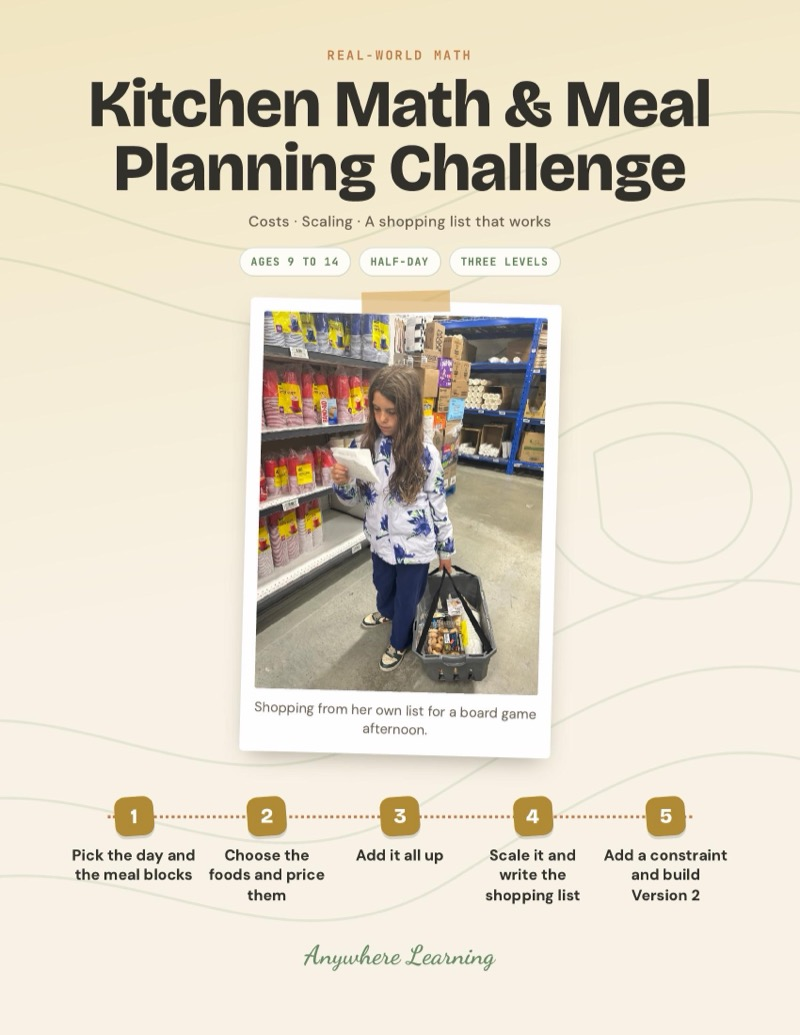
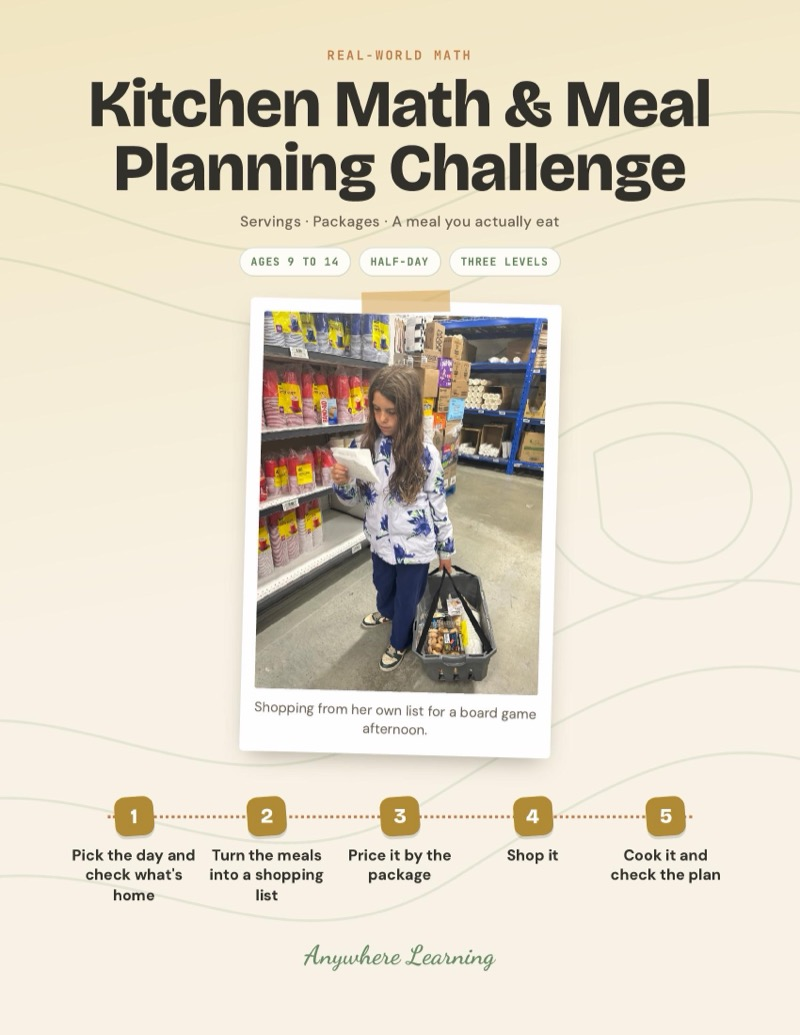
Kitchen Math: plan real meals from the fridge, price by the package, shop it, cook it + listing copy

diff --git a/scripts/seed.ts b/scripts/seed.ts
@@ -50,7 +50,7 @@ async function seed() {
     // === REAL-WORLD MATH, COMMUNICATION, ENTREPRENEURSHIP & PLANNING (sortOrder 50–60) ===
     { name: 'Real-Life Budget Challenge', slug: 'budget-challenge', description: 'Your child plans a day out the family will actually do, inside a real budget. They find the real prices, hold back a buffer, rank a cut list and pitch the plan to you. Then they run the money on the day, track every spend against the plan and see which line was furthest off. Real-world STEM maths with a day out at the end.', shortDescription: 'Real-world maths (STEM) for kids ages 9-14: plan a real day out on a real budget, then run the money on the day.', priceCents: 599, compareAtPriceCents: null, stripePriceId: 'price_1TFcTaAMzOBftCntcx3BoyC8', blobUrl: '', imageUrl: '/products/budget-challenge.jpg', category: 'real-world-math', isBundle: false, bundleProductIds: null, activityCount: null, ageRange: 'Ages 9\u201314', sortOrder: 110, active: true },
     { name: 'Community Impact Project', slug: 'community-impact', description: 'Pick a real neighbourhood problem, design a solution, build a plan, and do something about it.', shortDescription: 'Leadership through real community projects.', priceCents: 599, compareAtPriceCents: null, stripePriceId: 'price_1TFcTbAMzOBftCntFStp6niy', blobUrl: '', imageUrl: '/products/community-impact.jpg', category: 'planning-problem-solving', isBundle: false, bundleProductIds: null, activityCount: null, ageRange: 'Ages 9\u201314', sortOrder: 140, active: true },
-    { name: 'Kitchen Math & Meal Planning Challenge', slug: 'kitchen-math-challenge', description: 'Plan a day of meals, price it, scale it for the family, and build a real shopping list.', shortDescription: 'Real meal planning math, no cooking needed.', priceCents: 599, compareAtPriceCents: null, stripePriceId: 'price_1TFcTbAMzOBftCntCTnW0gph', blobUrl: '', imageUrl: '/products/kitchen-math-challenge.jpg', category: 'real-world-math', isBundle: false, bundleProductIds: null, activityCount: null, ageRange: 'Ages 9\u201314', sortOrder: 111, active: true },
+    { name: 'Kitchen Math & Meal Planning Challenge', slug: 'kitchen-math-challenge', description: 'Your child plans one to three real meals for the family, checks what is already at home, turns the meals into a shopping list and prices it by the package. Then they shop it with their own list, help make it, and lay the receipt next to the plan. Real-world STEM maths about what one serving costs, and what the store makes you buy.', shortDescription: 'Real-world maths (STEM) for kids ages 9-14: plan real family meals, price them by the package, shop the list and cook it.', priceCents: 599, compareAtPriceCents: null, stripePriceId: 'price_1TFcTbAMzOBftCntCTnW0gph', blobUrl: '', imageUrl: '/products/kitchen-math-challenge.jpg', category: 'real-world-math', isBundle: false, bundleProductIds: null, activityCount: null, ageRange: 'Ages 9\u201314', sortOrder: 111, active: true },
     { name: 'Media & Info Check', slug: 'media-info-check', description: 'Check reliability signals, find evidence, cross-check sources, and decide what is worth sharing.', shortDescription: 'Media literacy and critical thinking.', priceCents: 599, compareAtPriceCents: null, stripePriceId: 'price_1TFcTcAMzOBftCntRkLHGW3w', blobUrl: '', imageUrl: '/products/media-info-check.jpg', category: 'ai-literacy', isBundle: false, bundleProductIds: null, activityCount: null, ageRange: 'Ages 9\u201314', sortOrder: 80, active: true },
     { name: 'Micro-Business Challenge', slug: 'micro-business', description: 'Design a real business from scratch: idea, pricing, brand, marketing, and pitch.', shortDescription: 'Real entrepreneurship, not a simulation.', priceCents: 599, compareAtPriceCents: null, stripePriceId: 'price_1TFcTcAMzOBftCntZcUkdoFu', blobUrl: '', imageUrl: '/products/micro-business.jpg', category: 'entrepreneurship', isBundle: false, bundleProductIds: null, activityCount: null, ageRange: 'Ages 9\u201314', sortOrder: 130, active: true },
     { name: 'Problem-Solver Studio', slug: 'problem-solver', description: 'Pick a real problem, brainstorm, prototype with household materials, test, and improve.', shortDescription: 'Design thinking for real problems.', priceCents: 599, compareAtPriceCents: null, stripePriceId: 'price_1TFcTcAMzOBftCntgT52Nlxh', blobUrl: '', imageUrl: '/products/problem-solver.jpg', category: 'planning-problem-solving', isBundle: false, bundleProductIds: null, activityCount: null, ageRange: 'Ages 9\u201314', sortOrder: 141, active: true },

diff --git a/lib/product-descriptions.ts b/lib/product-descriptions.ts
@@ -791,24 +791,24 @@ export const productDescriptions: Record<string, ProductDescription> = {
   },
   'kitchen-math-challenge': {
     opening:
-      'Your child plans a full day of meals and snacks, prices every item, scales the plan for the whole family, and turns it into a real shopping list. Then you add a constraint, like a budget cap or a travel day, and they rebuild the plan to fit. No cooking needed: this is the math behind every grocery run.',
+      'Your child plans one to three real meals for the family, checks what is already at home, turns the meals into a shopping list and prices it by the package. Then they shop it with their own list, help make it, and lay the receipt next to the plan. Real-world STEM maths about what one serving costs, and what the store makes you buy.',
     whatsIncluded: [
-      '5 steps, from picking the day to a Version 2 plan',
+      '5 steps from checking the fridge to checking the receipt',
       'Per-serving vs per-package pricing (the bread loaf lesson)',
-      'Scaling for the family and turning meals into a shopping list',
-      'Five constraints to choose from: budget cap, minimal waste, travel-friendly, quick, no-cook',
-      'Price Menu page so it works fully offline',
+      'Turning meals into a shopping list for the whole family',
+      'Shopping from their own list, and when a bigger size is really a deal',
+      'Price Menu page for when you cannot check a flyer',
     ],
     skillTags: ['STEM', 'Real-World Math', 'Planning', 'Life Skills'],
     insideTheLearning: {
       lead:
-        'Your child plans a real day of food against real prices. The surprise comes at the shopping list: one sandwich costs $4 on paper and $15 at the store, because you cannot buy one slice of bread. Working out why, and planning around package sizes and leftovers, is where the math gets real.',
+        'Your child plans real meals against real prices, then shops and cooks them. The surprise comes at the shopping list: one sandwich costs $2.50 on paper and $15 at the store, because you cannot buy one slice of bread. Planning around that, and the leftovers it creates, is the skill.',
       skills: [
-        { skill: 'Math', where: 'Adding block totals, estimating, and multiplying servings for the family' },
+        { skill: 'Math', where: 'Multiplying servings for the family and estimating the total before the till' },
         { skill: 'Number Sense', where: 'Comparing the price per serving with the price per package' },
-        { skill: 'Budgeting', where: 'Rebuilding the plan to fit a budget cap' },
+        { skill: 'Budgeting', where: 'Comparing the priced list with the real receipt' },
         { skill: 'Planning', where: 'Turning a day of meals into an ingredient list without duplicates' },
-        { skill: 'Problem-Solving', where: 'Handling a constraint like minimal waste or a travel day' },
+        { skill: 'Problem-Solving', where: 'Swapping on the spot when the store is out, and planning the leftovers' },
       ],
     },
     format: 'Project Guide',

diff --git a/lib/fallback-products.ts b/lib/fallback-products.ts
@@ -624,15 +624,15 @@ export const fallbackProducts: FallbackProduct[] = [
     name: "Kitchen Math & Meal Planning Challenge",
     slug: "kitchen-math-challenge",
     description:
-      "Your child plans a full day of meals and snacks, prices every item, scales it for the family, and turns it into a real shopping list. Then a constraint lands, like a budget cap or a travel day, and they rebuild the plan. Real-world STEM math with per-serving and per-package prices, no cooking needed.",
+      "Your child plans one to three real meals for the family, checks what is already at home, turns the meals into a shopping list and prices it by the package. Then they shop it with their own list, help make it, and lay the receipt next to the plan. Real-world STEM maths about what one serving costs, and what the store makes you buy.",
     shortDescription:
-      "Real-world math (STEM) for kids ages 9-14: plan a day of meals, price it, scale it for the family, and build a shopping list.",
+      "Real-world maths (STEM) for kids ages 9-14: plan real family meals, price them by the package, shop the list and cook it.",
     priceCents: 599,
     compareAtPriceCents: null,
     stripePriceId: "price_1TLrpnAkIBECpwGmH6nVrxMI",
     blobUrl: "",
     imageUrl: "/products/kitchen-math-challenge.jpg",
-    previewFile: "Preview Real-world math - Kitchen math & meal planning challenge v6.pdf",
+    previewFile: "Preview Real-world math - Kitchen math & meal planning challenge v7.pdf",
     category: "real-world-math",
     isBundle: false,
     bundleProductIds: null,

diff --git a/lib/activity-blob-urls.ts b/lib/activity-blob-urls.ts
@@ -65,7 +65,7 @@ export const ACTIVITY_BLOB_URLS: Record<string, string> = {
   "investor-pitch": "https://xkj3tzlgu6ylgllk.public.blob.vercel-storage.com/Entrepreneurship%20-%20Investor%20Pitch%20Portfolio%20v2.pdf",
   "kindness-missions": "https://xkj3tzlgu6ylgllk.public.blob.vercel-storage.com/Emotional%20%26%20Social%20Skills%20-%20The%20Kindness%20Missions%20v2.pdf",
   "kinetic-sculpture": "https://xkj3tzlgu6ylgllk.public.blob.vercel-storage.com/Creativity%20%26%20Maker%20Kinetic%20Sculpture%20or%20Art%20Installation%20v4.pdf",
-  "kitchen-math-challenge": "https://xkj3tzlgu6ylgllk.public.blob.vercel-storage.com/Real-world%20math%20-%20Kitchen%20math%20%26%20meal%20planning%20challenge%20v6.pdf",
+  "kitchen-math-challenge": "https://xkj3tzlgu6ylgllk.public.blob.vercel-storage.com/Real-world%20math%20-%20Kitchen%20math%20%26%20meal%20planning%20challenge%20v7.pdf",
   "kitchen-science-lab": "https://xkj3tzlgu6ylgllk.public.blob.vercel-storage.com/Planning%20%26%20Problem-Solving%20Kitchen%20Science%20Lab%20v5.pdf",
   "land-art-challenges": "https://xkj3tzlgu6ylgllk.public.blob.vercel-storage.com/Outdoor%20Learning%20-%20Land%20Art%20Challenge%20Cards%20v4.pdf",
   "local-language-mission": "https://xkj3tzlgu6ylgllk.public.blob.vercel-storage.com/Worldschooling%20-%20Local%20Language%20Mission%20v2.pdf",
